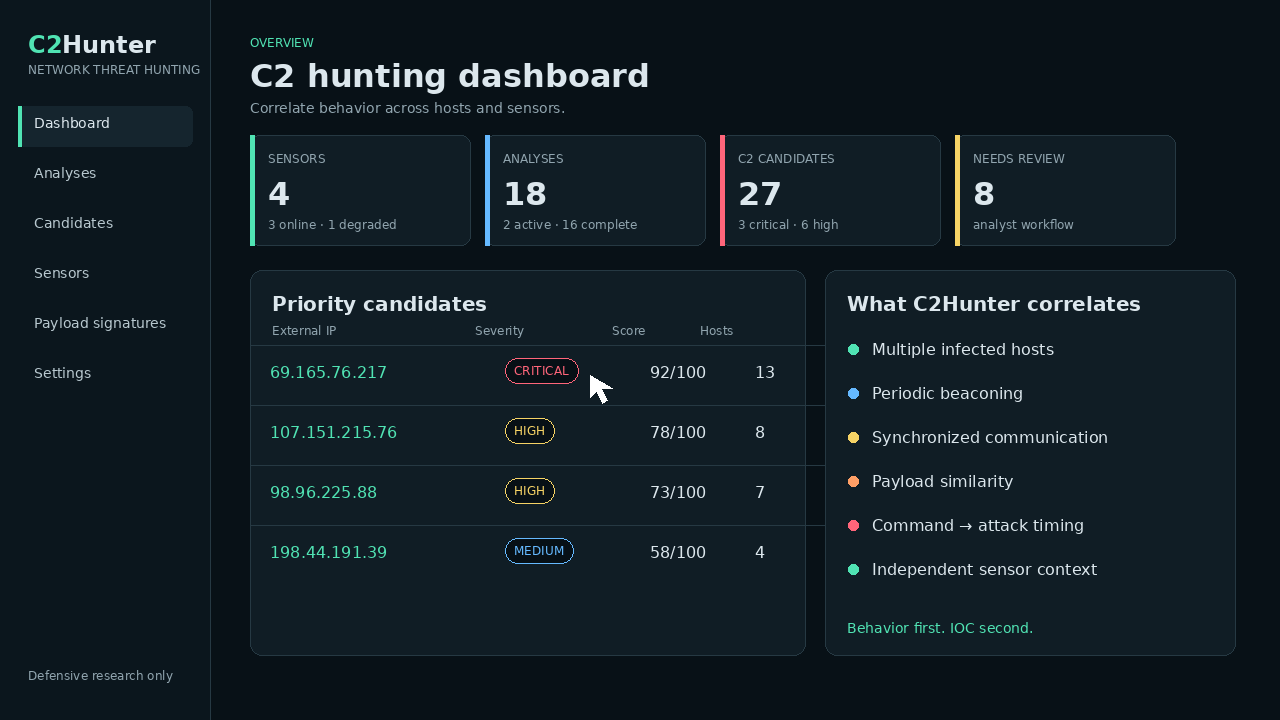
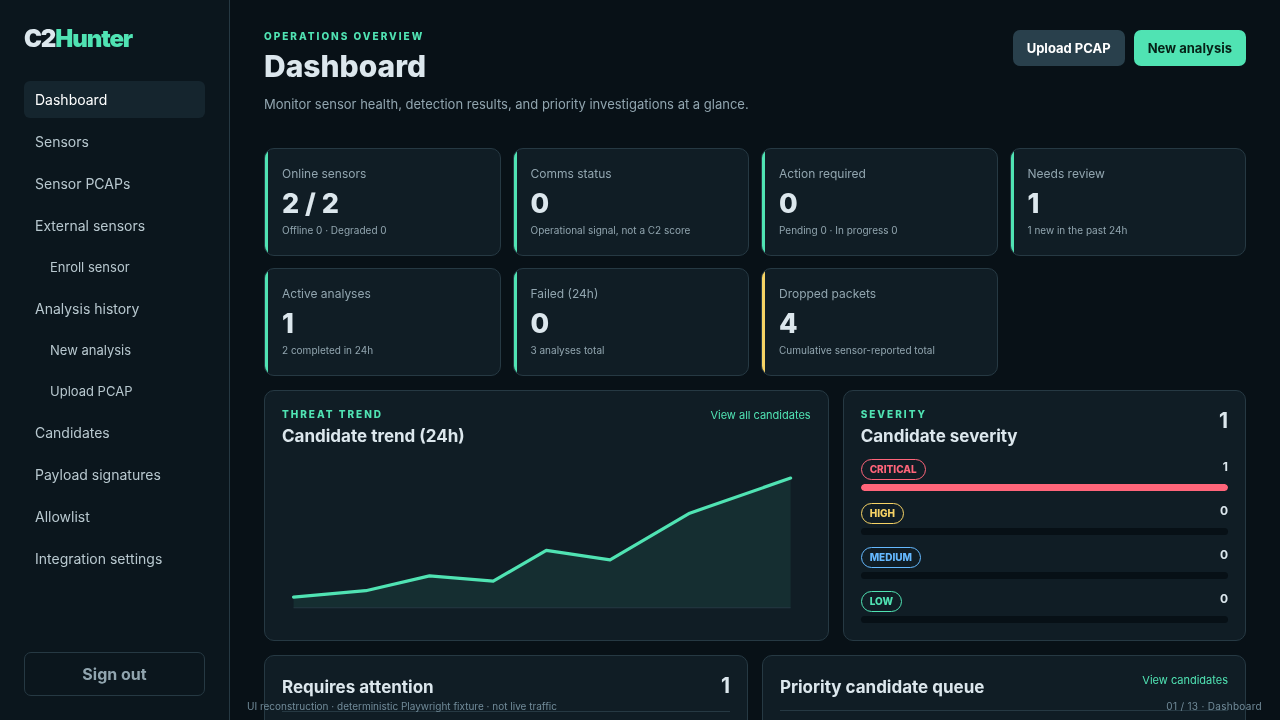
docs: refresh README demo with English, source-aligned workflow

diff --git a/ASSET-NOTES.md b/ASSET-NOTES.md
@@ -1,8 +1,20 @@
-# README Launch Assets
+# README launch assets
 
-- `README.md` — proposed replacement README.
-- `docs/assets/c2hunter-demo.gif` — promotional workflow GIF styled from the current C2Hunter UI palette and actual workflow concepts.
-- `docs/assets/c2hunter-demo-poster.png` — static fallback/poster.
+The README embeds `docs/assets/c2hunter-demo.gif` and keeps the same path after this update.
 
-The GIF uses illustrative sample data for promotion. For a public v1.0 launch, consider replacing it later with a real browser capture from a deterministic E2E fixture while keeping the same story:
-Dashboard → PCAP upload → analyzing → ranked candidates → evidence → analyst review → payload signature / AI explanation.
+| Asset | Description |
+| --- | --- |
+| `docs/assets/c2hunter-demo.gif` | English-language, 1280 × 720, 37-frame, 21.1-second animated workflow demonstration |
+| `docs/assets/c2hunter-demo-poster.png` | English-language poster/first scene for the demo |
+
+## What is shown
+
+Dashboard → Analysis history → Upload PCAP → upload/analysis progress → C2 candidate review → scored behavioral evidence → analyst verdict → external TI and MISP hand-off.
+
+The example candidate `203.0.113.10` is a documentation-range address; the demo uses deterministic sample data, not production traffic.
+
+## Source and limitations
+
+Reconstructed from the React frontend and Playwright E2E fixture in commit `a1d17e7` (2026-11-09). This is a browser-rendered *illustrative reconstruction*, **not** a screen recording of a running C2Hunter controller. Some demo labels are translated into English, while the current production UI uses a mixture of English and Korean. Values and progress are illustrative and should not be interpreted as results from a real capture.
+
+To create a fully authentic capture in the future, start the actual React application with deterministic API fixtures and record the Playwright browser session.
